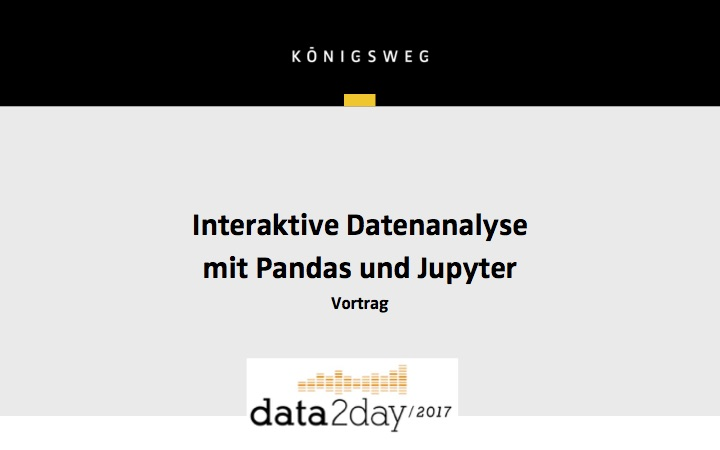
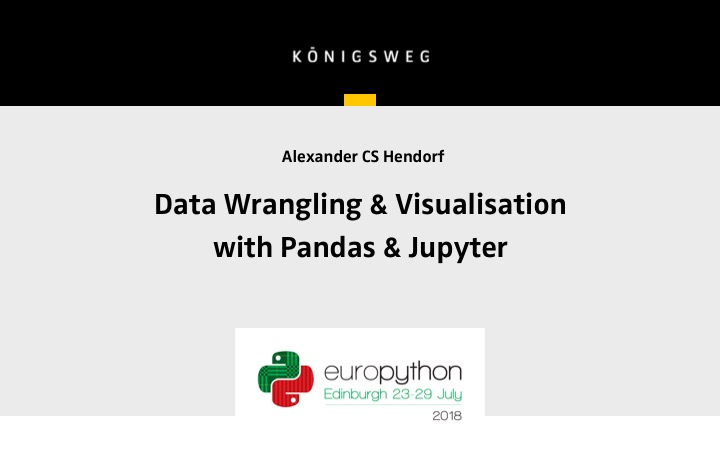
updates for EuroPython 2018

diff --git a/README.md b/README.md
@@ -1,6 +1,8 @@
-# Introduction to Data-Analysis with Pandas
+# Data Wrangling & Visualisation with Pandas & Jupyter
 
 ## Follow-Along tutorial presented at PyData conferences all over Europe.
+
+![Poster](img/cover.jpg)
 
 Pandas is the Swiss-Multipurpose Knife for Data Analysis in Python. With Pandas dealing with data-analysis is easy and simple but there are some things you need to get your head around first as Data-Frames and Data-Series. 
 
